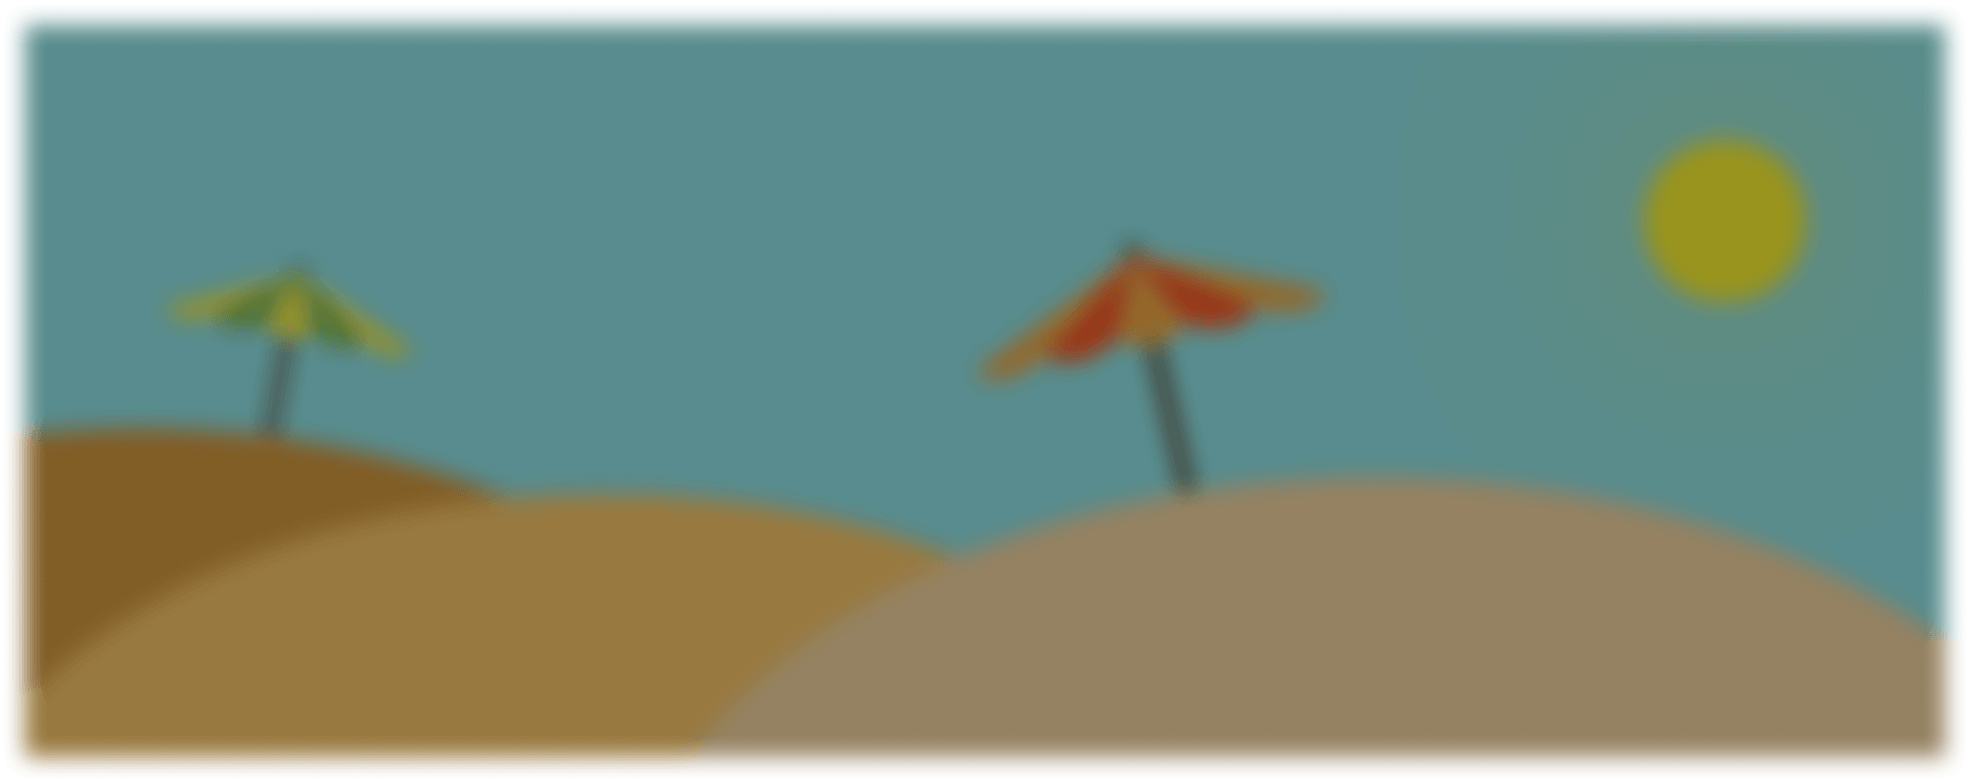
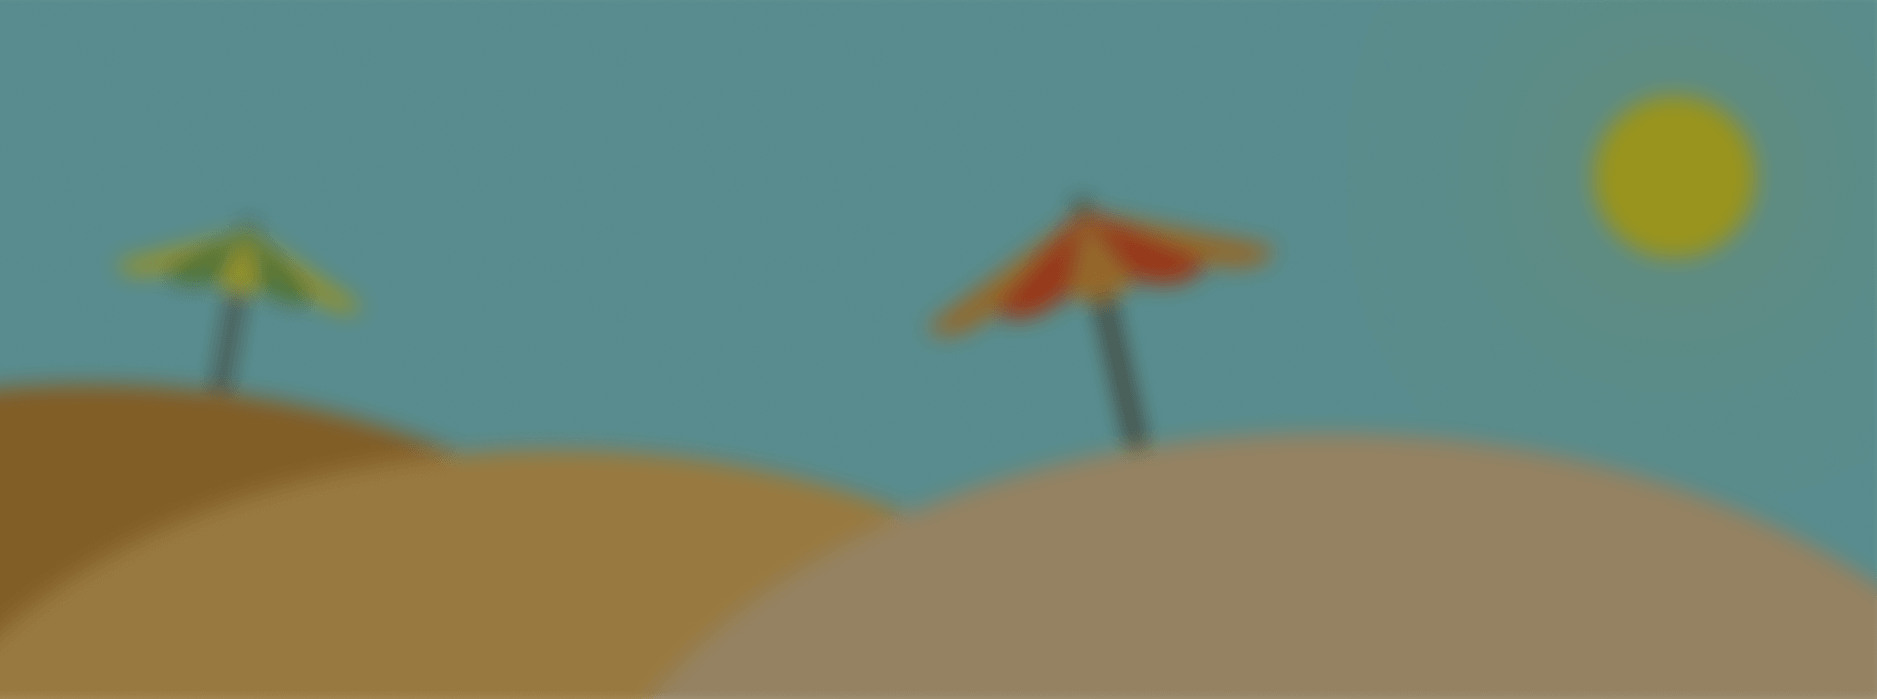
Fix projects background images

diff --git a/apps/css/styles.css b/apps/css/styles.css
@@ -32,13 +32,13 @@ body{
 .beachalarm{
     background: url('../images/beachalarm-background-light.png');
     background-position: center center;
-    background-size: 105%;
+    background-size: cover;
 }
 
 .eriantys{
     background: url('../images/eriantys-background-light.png');
     background-position: center center;
-    background-size: 105%;
+    background-size: cover;
 }
 
 .beachalarm .card-title{
@@ -97,7 +97,7 @@ a{
 }
 
 .header h1{
-    width: 180px;
+    width: 200px;
     margin: 35px auto;
     font-family: 'Varela Round', sans-serif;
     line-height: 35px;
@@ -188,13 +188,13 @@ a{
     .beachalarm{
         background: url('../images/beachalarm-background-dark.png');
         background-position: center center;
-        background-size: 105%;
+        background-size: cover;
     }
 
     .eriantys{
         background: url('../images/eriantys-background-dark.png');
         background-position: center center;
-        background-size: 105%;
+        background-size: cover;
     }
 
     .card-text{
